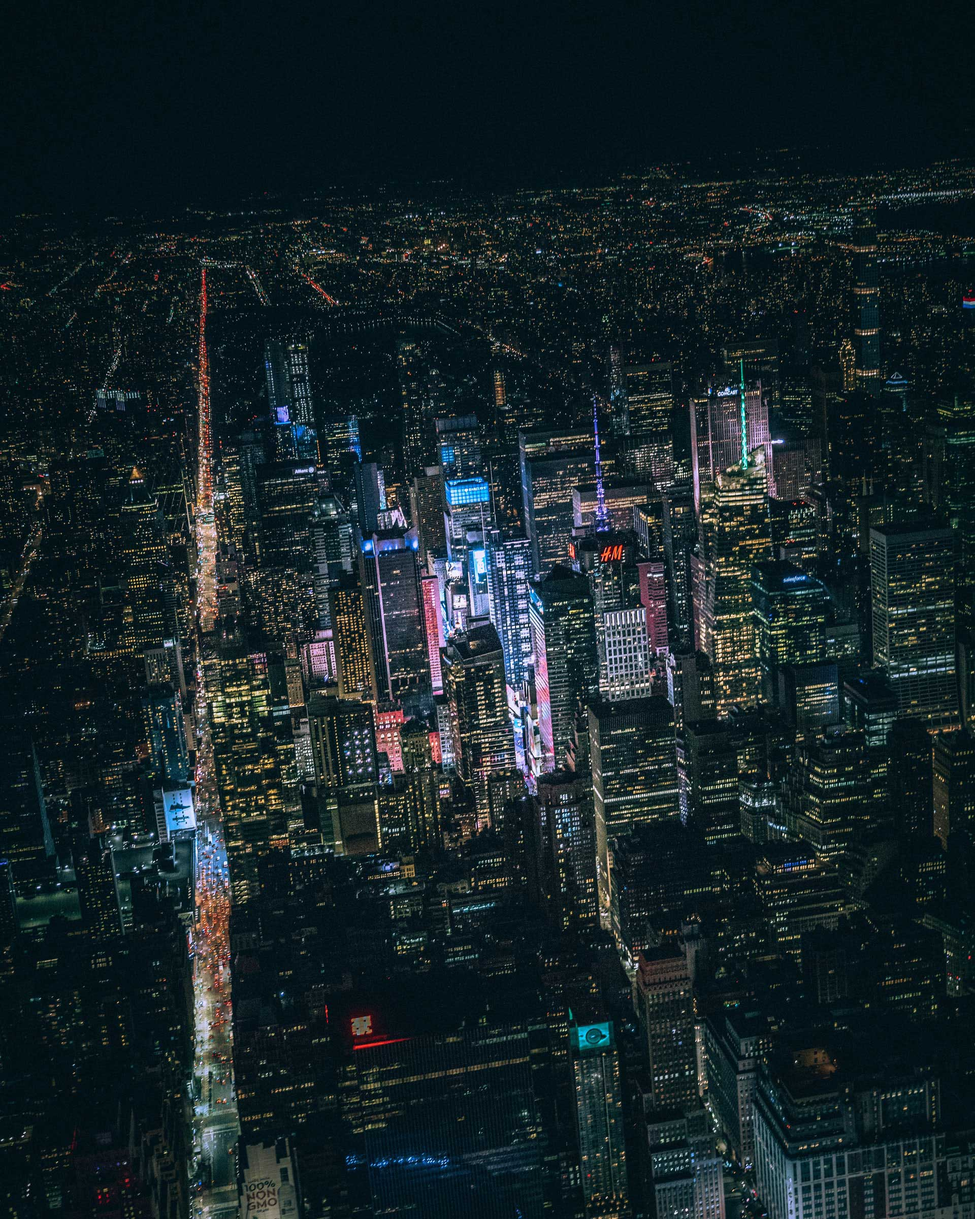
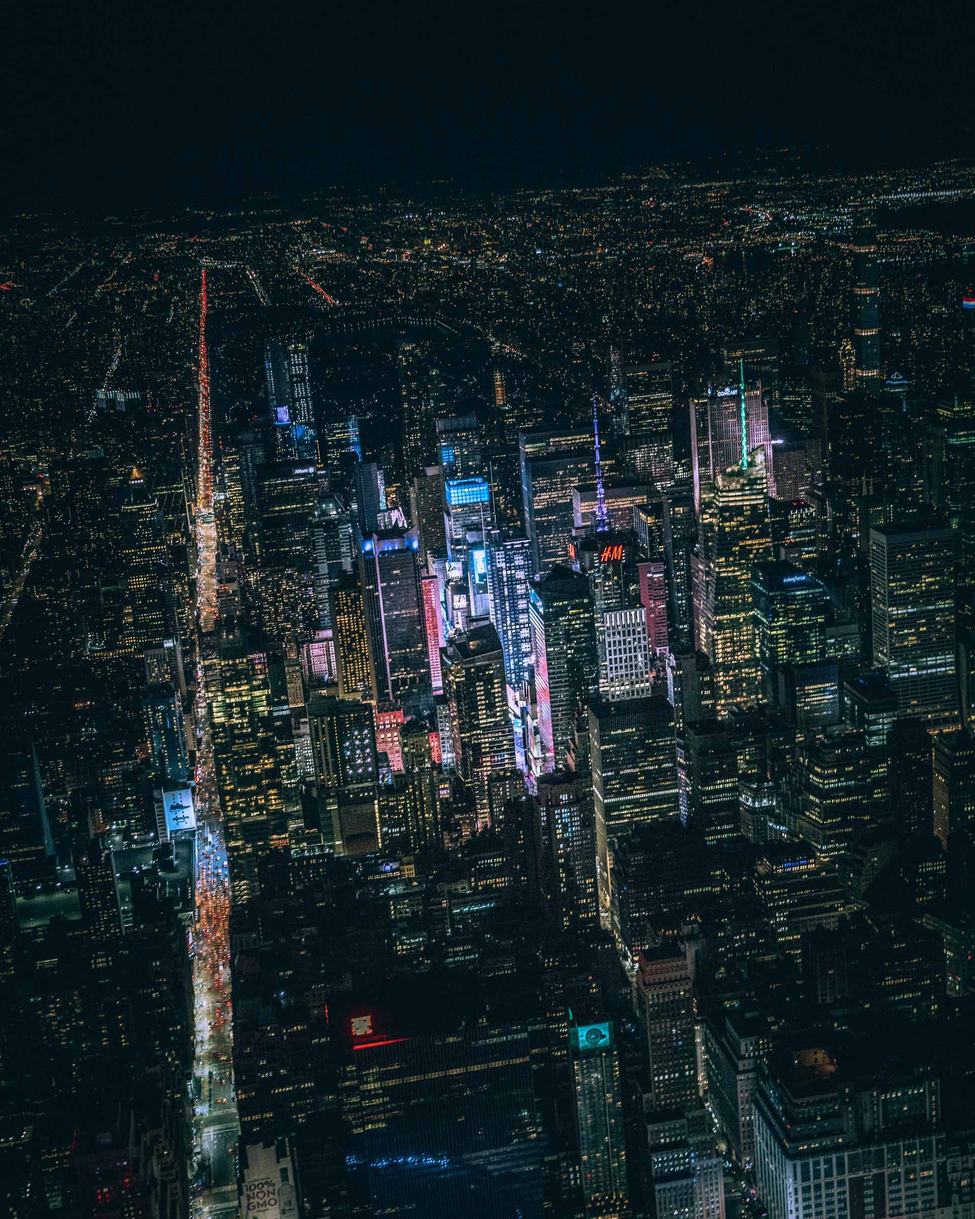
resized background images, changed name from Dan to Daniel

Changed region(s): [[0.3438, 0.5, 0.375, 0.5625], [0.1875, 0.4062, 0.25, 0.4375]]

diff --git a/src/screens/Master.jsx b/src/screens/Master.jsx
@@ -5,7 +5,7 @@ function Master() {
   return (
     <div className="master" id="master">
       <div>
-        <h1>Dan Vera</h1>
+        <h1>Daniel Vera</h1>
         <h3>
           New York City Based Full-Stack Web Developer | Software Engineer
         </h3>

diff --git a/src/screens/Projects.css b/src/screens/Projects.css
@@ -75,7 +75,7 @@
 }
 
 .proj-overlay:hover {
-  background-color: rgba(0, 166, 255, 0.8);
+  background-color: rgba(0, 166, 255, 0.7);
   opacity: 1;
 }
 
